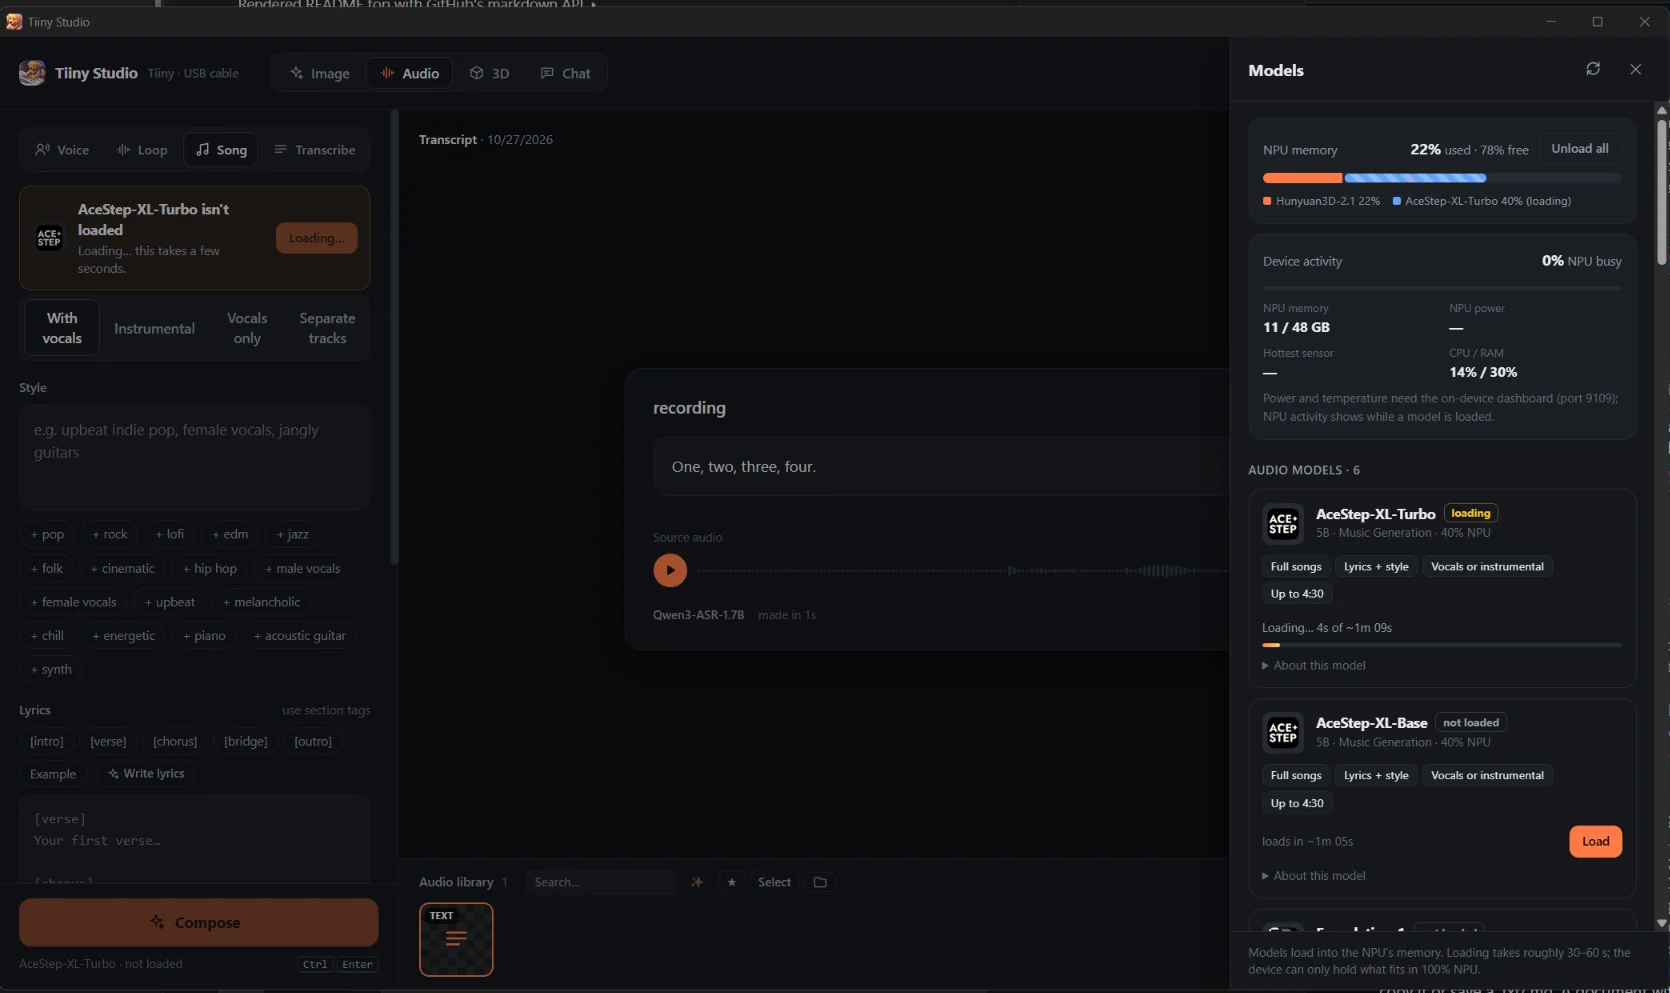
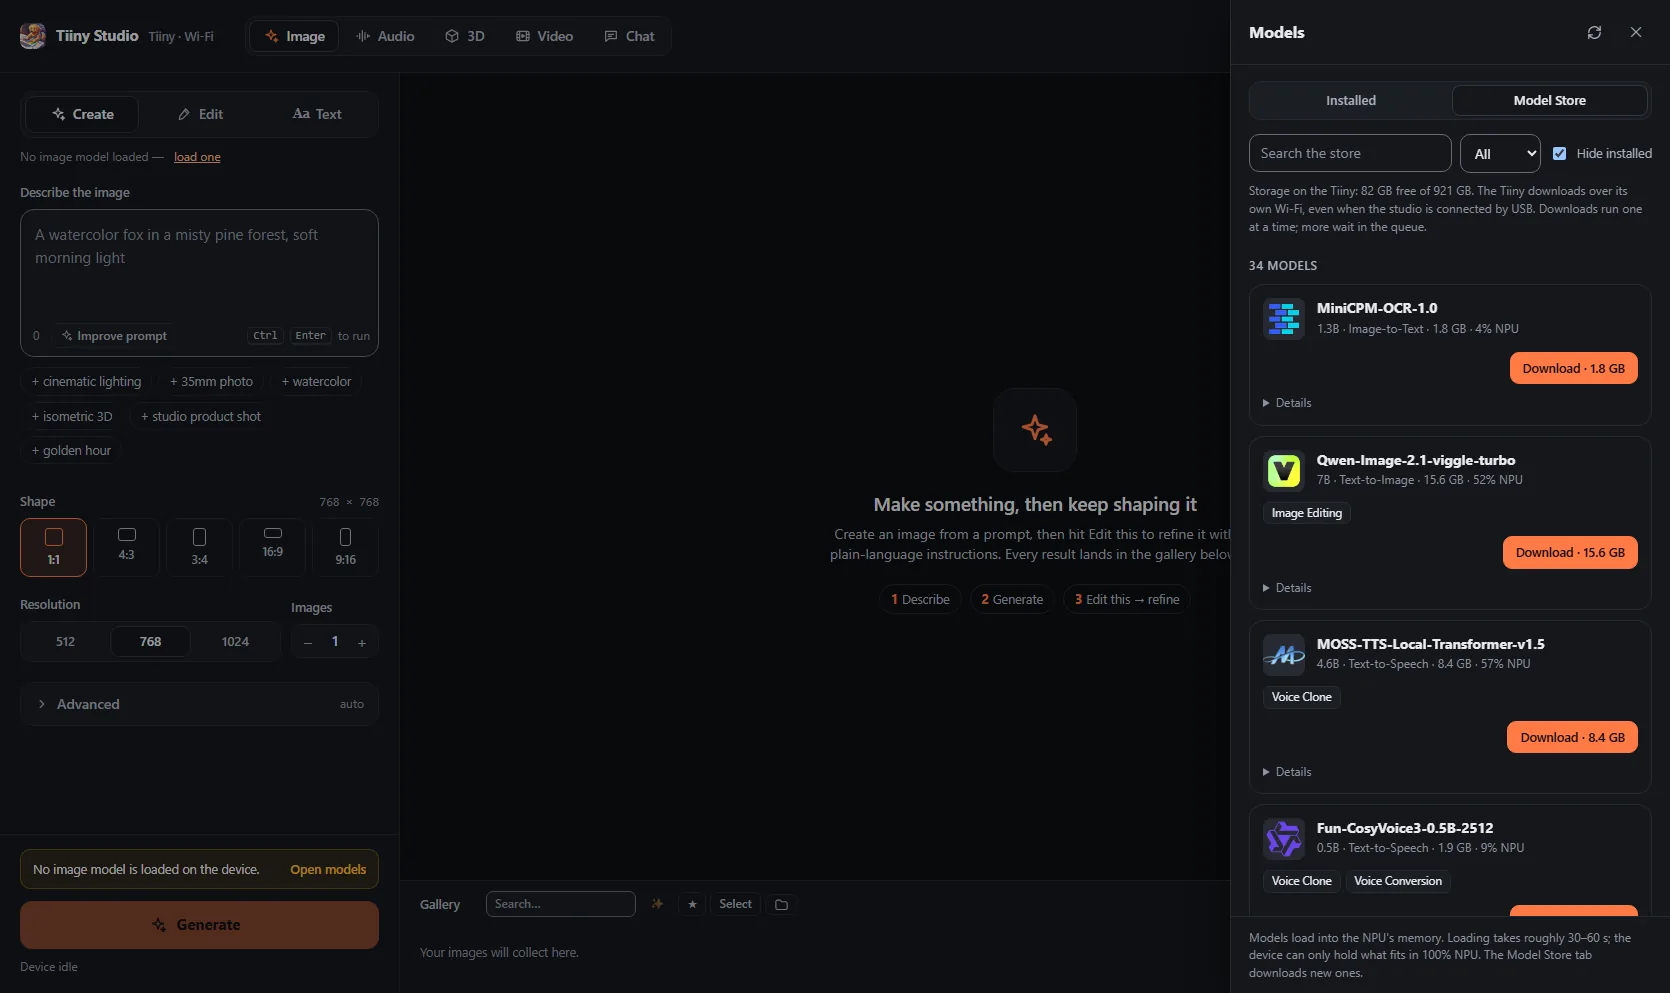
README: a new Models screenshot (the Model Store tab) and caption
Taken on a real Tiiny with tools/screenshot_models.py: a scratch studio with an empty
data folder, the device named "Wi-Fi", read-only.

diff --git a/README.md b/README.md
@@ -17,8 +17,8 @@ Showcase and discussion: [Tiiny Studio on TiinyVerse](https://tiinyverse.com/pos
 | **Image**: create and edit on the Tiiny (HiDream here) | **3D**: the same dog as a textured GLB, made in 6 minutes |
 | ![3D: a model being built, with its stages and a Cancel button](docs/screenshots/3d-building.webp) | ![Audio: a recording transcribed, with voice cloning on the left](docs/screenshots/audio.webp) |
 | **3D** while it builds: shape → simplify → texture → export | **Audio**: voices, loops, songs and transcription |
-| ![Models panel: NPU memory shared by two models, live device activity, load buttons](docs/screenshots/models.webp) | ![Song: a one-minute instrumental made on the Tiiny, with save, MP3 and vary](docs/screenshots/song.webp) |
-| **Models**: what's loaded, NPU memory and device activity | **Songs**: lyrics or instrumental, saved as WAV or MP3 |
+| ![Models panel on the Model Store tab: models the Tiiny can download, each with its size, NPU share, features and a Download button](docs/screenshots/models.webp) | ![Song: a one-minute instrumental made on the Tiiny, with save, MP3 and vary](docs/screenshots/song.webp) |
+| **Models**: the Model Store (download, queue, update, delete), plus loading and NPU memory | **Songs**: lyrics or instrumental, saved as WAV or MP3 |
 
 - **Image**: create from a prompt, or a new picture that uses up to 10 of yours as references
   ("the mug from image 1 in a cafe", in any shape); edit with plain-language instructions; circle an area to change;
